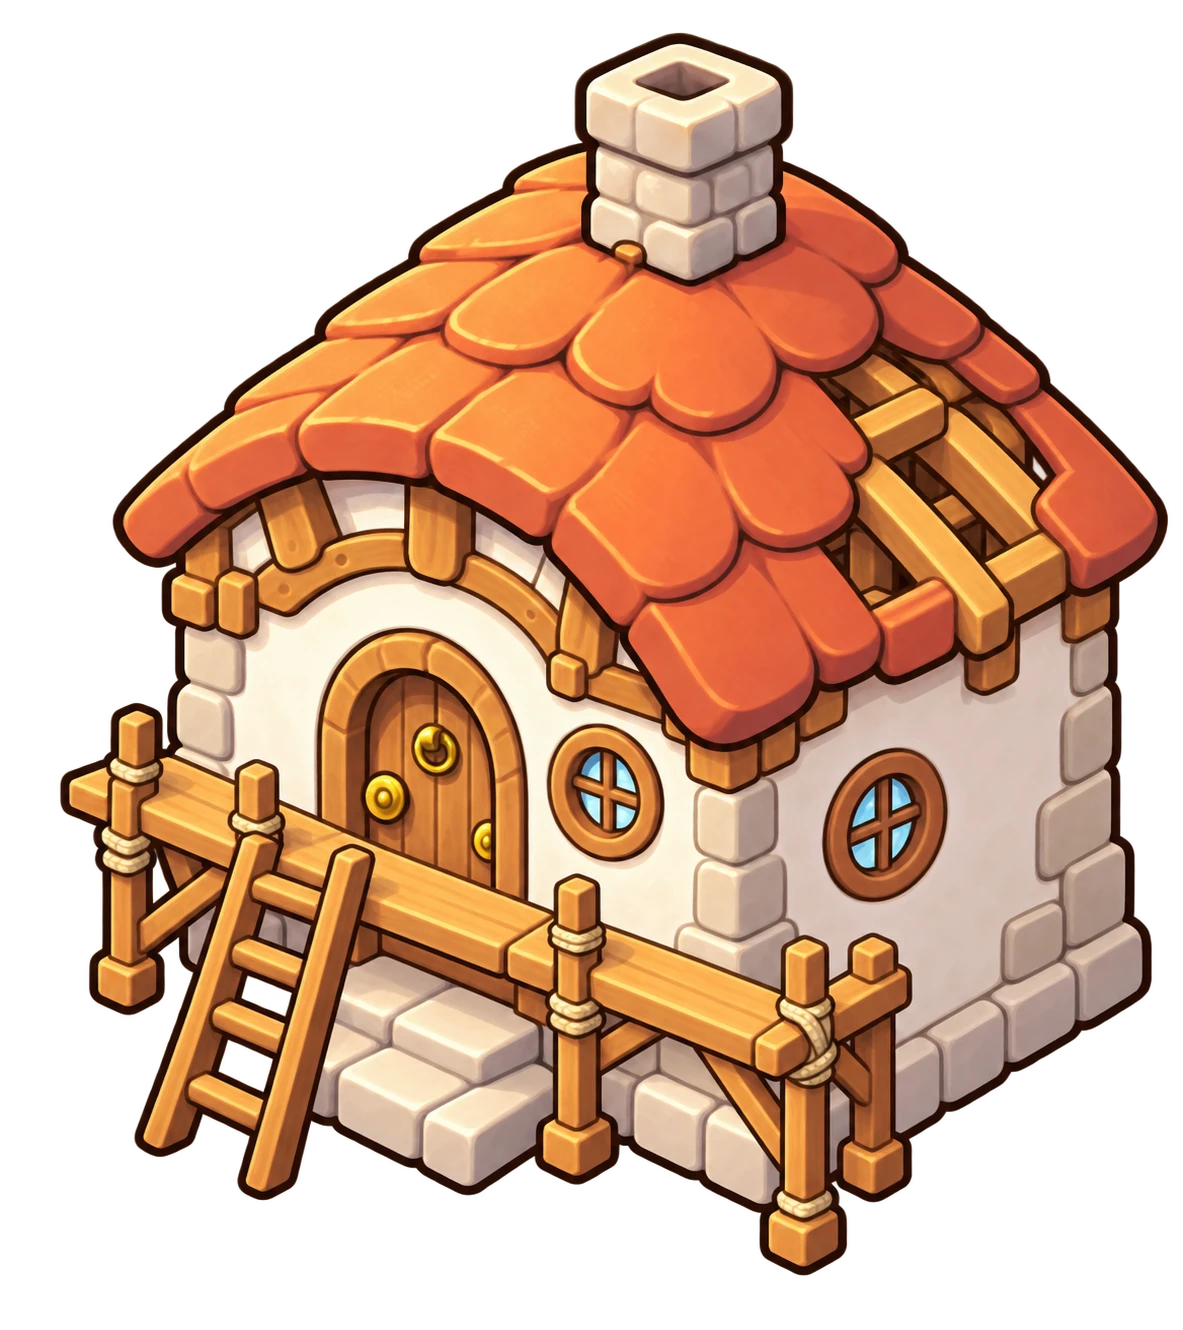
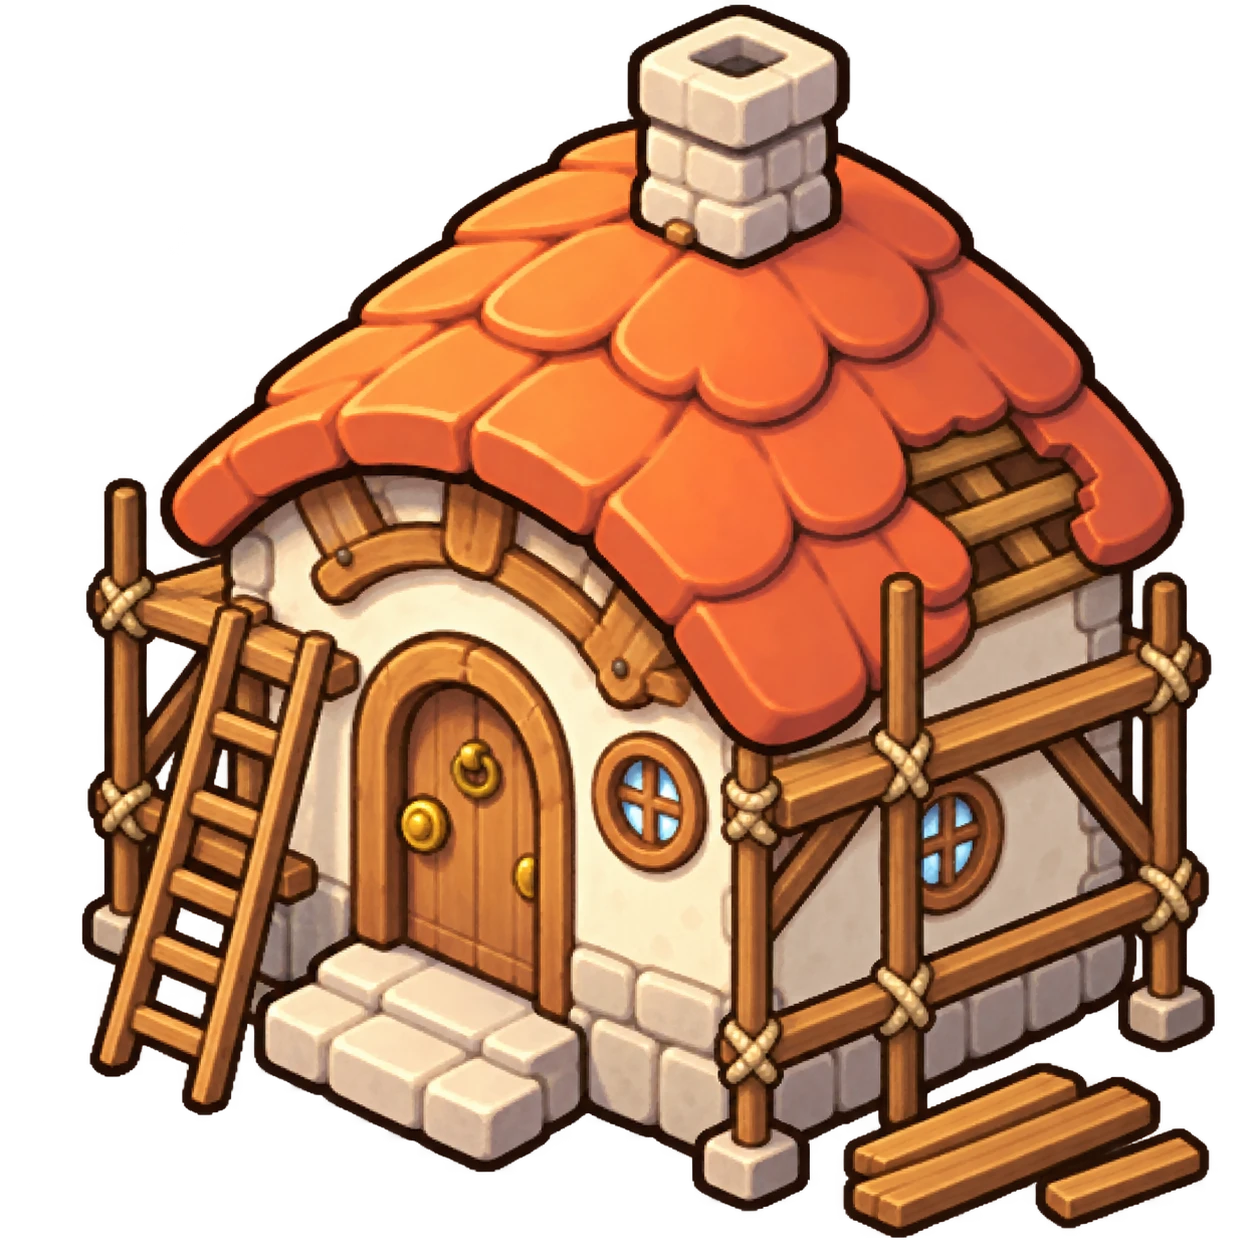
feat: 돌아옴 팝업 마을 소식, 완성 집과 맞춘 공사 3단계 그림, 요정 위치 이동
- 자리를 비운 동안 팝업에 마을 소식: 다 지은 건설(한 번만), 짓는 중 남은 시간, 다시 생긴 줍기 자리, 다음 할 일
- 공사 3단계 그림을 완성 집 그림 기반으로 교체, 지붕 겹침으로 위치 맞춤
- 단계 그림 캔버스에 여백(PAD 48)을 두고 Unity 피벗을 그만큼 옮김 (비계가 잘리지 않게)
- TMP 한국어 줄바꿈을 띄어쓰기 단위로 (UseModernHangulLineBreakingRules)
- 광장 요정을 게시판과 겹치지 않는 오른쪽 가운데로 이동

diff --git a/Tools/UIGen/fit_stage_images.py b/Tools/UIGen/fit_stage_images.py
@@ -3,11 +3,12 @@
 #     stage0_site.png   건설 예정지 (1단계 그림에서 나무 골조만 걷어 낸 편집본 — 같은 캔버스·같은 자리)
 #     stage1_frame.png  골조       ┐ 지붕 기와가 없어 두 집이 같이 씀
 #     stage2_walls.png  벽         ┘
-#     stage3_<집>.png    마무리 (집마다 지붕 색)
-# - 결과: Assets/Art/Settlement/Stage_<집>_<0~3>.png — 완성 집 PNG와 같은 캔버스 크기,
+#     stage3_<집>.png    마무리 (완성 집 그림을 고친 것 — 우물·화분이 빠져 그림 영역이 달라서 지붕을 겹쳐 맞춤)
+# - 결과: Assets/Art/Settlement/Stage_<집>_<0~3>.png — 완성 집 PNG 캔버스 + 사방 PAD 여백,
 #   그림 폭을 완성 집 폭에 맞추고 아래 가운데를 완성 집 아래 가운데에 맞춤 (Unity에서 같은 피벗·PPU로 겹쳐 보임)
 #   0단계는 1단계와 똑같은 비율·위치로 옮겨서 돌 기초가 정확히 겹치게 함
 # 실행: python Tools/UIGen/fit_stage_images.py
+import colorsys
 import os
 
 from PIL import Image
@@ -41,10 +42,71 @@ def placement(src, house):
     return box, (width, height), (cx - width // 2, hy1 - height)
 
 
+# 완성 집 그림을 고친 단계 → 지붕 색 (hue 범위 0~360)으로 겹쳐 맞춤
+ROOF_HUES = {"House_Blue": (160, 200), "House_Red": (0, 22)}
+
+
+def roof_mask(img, hues):
+    """지붕 기와 픽셀 집합 (채도·밝기가 충분하고 hue가 범위 안)"""
+    lo, hi = hues
+    w, h = img.size
+    px = img.load()
+    out = set()
+    for y in range(h):
+        for x in range(w):
+            r, g, b, a = px[x, y]
+            if a < 200:
+                continue
+            hue, s, v = colorsys.rgb_to_hsv(r / 255, g / 255, b / 255)
+            if s > 0.45 and v > 0.5 and lo <= hue * 360 <= hi:
+                out.add((x, y))
+    return out
+
+
+def bbox(points):
+    xs = [p[0] for p in points]
+    ys = [p[1] for p in points]
+    return min(xs), min(ys), max(xs) + 1, max(ys) + 1
+
+
+def roof_placement(src, house, hues):
+    """지붕끼리 가장 많이 겹치는 (자를 영역, 크기, 붙일 위치). 지붕 폭으로 대강 맞춘 뒤 배율·위치를 조금씩 바꿔 봄"""
+    target = roof_mask(house, hues)
+    tx0, ty0, tx1, ty1 = bbox(target)
+    box = src.getbbox()
+    cropped = src.crop(box)
+    sx0, _, sx1, _ = bbox(roof_mask(cropped.resize((cropped.width // 4, cropped.height // 4)), hues))
+    base = (tx1 - tx0) / ((sx1 - sx0) * 4)
+
+    best = None
+    for k in range(-8, 9):
+        scale = base * (1 + k * 0.01)
+        size = (round(cropped.width * scale), round(cropped.height * scale))
+        mask = roof_mask(cropped.resize(size, Image.LANCZOS), hues)
+        mx0, my0, mx1, my1 = bbox(mask)
+        # 지붕 영역의 왼쪽 위를 먼저 맞추고 주변을 찾음
+        ox, oy = tx0 - mx0, ty0 - my0
+        for dx in range(-6, 7):
+            for dy in range(-6, 7):
+                moved = {(x + ox + dx, y + oy + dy) for x, y in mask}
+                iou = len(moved & target) / len(moved | target)
+                if best is None or iou > best[0]:
+                    best = (iou, size, (ox + dx, oy + dy))
+    iou, size, pos = best
+    print(f"  지붕 겹침 {iou:.2f}, 크기 {size}, 위치 {pos}")
+    return box, size, pos
+
+
+# 완성 집 캔버스 둘레에 더하는 여백 (비계·판자가 집 밖으로 나와도 잘리지 않게).
+# Unity는 단계 그림이 사방으로 같은 여백을 가진다고 보고 피벗을 옮김 (SettlementSetup.ImportStageSprite)
+PAD = 48
+
+
 def render(src, house, place):
     box, size, pos = place
-    out = Image.new("RGBA", house.size, (0, 0, 0, 0))
-    out.alpha_composite(src.crop(box).resize(size, Image.LANCZOS), pos)
+    out = Image.new("RGBA", (house.width + PAD * 2, house.height + PAD * 2), (0, 0, 0, 0))
+    img = src.crop(box).resize(size, Image.LANCZOS)
+    out.paste(img, (pos[0] + PAD, pos[1] + PAD), img)
     return out
 
 
@@ -63,7 +125,8 @@ def main():
         house = Image.open(os.path.join(PROPS, f"Prop_{name}.png")).convert("RGBA")
         for i, file in enumerate(files, 1):
             src = load(file)
-            render(src, house, placement(src, house)).save(os.path.join(OUT, f"Stage_{name}_{i}.png"))
+            place = roof_placement(src, house, ROOF_HUES[name]) if i == 3 else placement(src, house)
+            render(src, house, place).save(os.path.join(OUT, f"Stage_{name}_{i}.png"))
             print("saved", f"Stage_{name}_{i}")
 
         if site is not None:

diff --git a/Assets/Scripts/Settlement/SettlementManager.cs b/Assets/Scripts/Settlement/SettlementManager.cs
@@ -58,6 +58,9 @@ public class SettlementManager : MonoBehaviour
     /// <summary>게시판을 열어 달라는 부탁 (광장 게시판·안내 띠). 게시판 화면이 듣는다. 인자: 부탁 탭으로 열지</summary>
     public event Action<bool> OnBoardRequested;
 
+    // 끝난 건설 (부탁, 끝난 시각). 돌아옴 팝업이 자리를 비운 동안 끝난 것만 골라 알리고 비운다
+    private readonly List<(BoardRequestDefinition request, long endTicks)> _finishedJobs = new List<(BoardRequestDefinition, long)>();
+
     private void Awake()
     {
         // 중복은 GlobalUIRoot가 먼저 꺼서 여기까지 오지 않지만, 혹시 모를 경우를 대비
@@ -210,6 +213,7 @@ public class SettlementManager : MonoBehaviour
             SaveRequested?.Invoke();
             return;
         }
+        _finishedJobs.Add((request, job.EndUtcTicks));
         Complete(request);
     }
 
@@ -286,6 +290,71 @@ public class SettlementManager : MonoBehaviour
         Settlement.SetGatherReady(pointId, NowTicks + TimeSpan.FromSeconds(cooldownSeconds).Ticks);
         SaveRequested?.Invoke();
         return added;
+    }
+
+    #endregion
+
+    #region 자리를 비운 동안
+
+    /// <summary>
+    /// 돌아옴 팝업의 마을 소식: 비운 동안 다 지은 건설, 아직 짓는 중인 건설, 다시 생긴 줍기 자리.
+    /// 다 지은 건설은 한 번만 알린다. 소식이 없으면 아무것도 넣지 않는다
+    /// </summary>
+    public void CollectAbsenceNews(double absenceSeconds, List<string> lines)
+    {
+        if (lines == null)
+            throw new ArgumentNullException(nameof(lines));
+        if (!IsLoaded)
+            return;
+
+        long now = NowTicks;
+        long leftAt = now - TimeSpan.FromSeconds(Math.Max(0, absenceSeconds)).Ticks;
+
+        // 백그라운드에서 돌아오면 Update보다 먼저 불려 아직 안 끝났을 수 있음
+        if (Settlement.Job != null && Settlement.Job.IsDue(now))
+            FinishJob();
+
+        foreach (var (request, endTicks) in _finishedJobs)
+        {
+            if (endTicks < leftAt)
+                continue;
+            // 완료 문구는 첫 줄만 (팝업 한 줄에 들어가게)
+            string done = $"{request.Construction.DisplayName} 완성!";
+            string message = string.IsNullOrEmpty(request.CompletionMessage) ? null : request.CompletionMessage.Split('\n')[0];
+            lines.Add(message == null ? done : $"{done} {message}");
+        }
+        _finishedJobs.Clear();
+
+        var building = JobRequest;
+        if (building != null)
+            lines.Add($"{building.Construction.ProgressLabel} · {FormatRemaining(Settlement.Job.Remaining(now))} 남았어요");
+
+        int regrown = Settlement.CountGatherRegrown(leftAt, now);
+        if (regrown > 0)
+            lines.Add($"광장에 주울 나뭇가지·돌이 {regrown}곳 다시 생겼어요");
+    }
+
+    /// <summary>돌아옴 팝업 맨 아래의 다음 할 일 (지금 할 부탁 또는 정착 후보의 이야기. 짓는 중이거나 다 끝냈으면 null)</summary>
+    public string NextGoalTitle
+    {
+        get
+        {
+            if (!IsLoaded || Settlement.Job != null)
+                return null;
+            var current = CurrentRequest;
+            if (current != null)
+                return current.Title;
+            var intro = PendingIntroOtter;
+            return intro != null ? $"{intro.DisplayName}의 이야기 듣기" : null;
+        }
+    }
+
+    private static string FormatRemaining(TimeSpan remaining)
+    {
+        int seconds = (int)Math.Ceiling(remaining.TotalSeconds);
+        if (seconds >= 3600)
+            return $"{seconds / 3600}시간 {seconds / 60 % 60}분";
+        return seconds >= 60 ? $"{(seconds + 59) / 60}분" : $"{seconds}초";
     }
 
     #endregion

diff --git a/Assets/Editor/Settlement/SettlementSetup.Plaza.cs b/Assets/Editor/Settlement/SettlementSetup.Plaza.cs
@@ -436,7 +436,8 @@ public static partial class SettlementSetup
         return view;
     }
 
-    // 단계 그림은 완성 집 그림과 같은 크기라, 완성 집 스프라이트의 PPU·피벗을 그대로 써서 겹쳐 보이게 함
+    // 단계 그림은 완성 집 그림 캔버스에 사방 같은 여백을 더한 크기(fit_stage_images.py의 PAD) →
+    // 완성 집의 PPU를 쓰고, 피벗은 완성 집 피벗을 여백만큼 옮겨서 겹쳐 보이게 함
     private static Sprite ImportStageSprite(string name, Sprite house)
     {
         string path = $"{ArtFolder}/{name}.png";
@@ -455,7 +456,9 @@ public static partial class SettlementSetup
         var settings = new TextureImporterSettings();
         importer.ReadTextureSettings(settings);
         settings.spriteAlignment = (int)SpriteAlignment.Custom;
-        settings.spritePivot = new Vector2(house.pivot.x / house.rect.width, house.pivot.y / house.rect.height);
+        importer.GetSourceTextureWidthAndHeight(out int width, out int height);
+        var pad = new Vector2((width - house.rect.width) * 0.5f, (height - house.rect.height) * 0.5f);
+        settings.spritePivot = new Vector2((house.pivot.x + pad.x) / width, (house.pivot.y + pad.y) / height);
         importer.SetTextureSettings(settings);
         importer.SaveAndReimport();
         return AssetDatabase.LoadAssetAtPath<Sprite>(path);

diff --git a/Assets/Scripts/UI/GameUI.cs b/Assets/Scripts/UI/GameUI.cs
@@ -291,6 +291,8 @@ public class GameUI : MonoBehaviour
         offlineReportModal = modal;
         CreateLabel(content, $"{FormatDuration(report.ElapsedSec)} 동안 있었던 일이에요.");
 
+        if (report.SettlementNews.Count > 0) CreateLabel(content, "마을 소식\n" + string.Join("\n", report.SettlementNews));
+
         if (report.OtterVisits.Count > 0) CreateLabel(content, DescribeOtterVisits(report.OtterVisits));
 
         if (report.Received.Count > 0) CreateLabel(content, "받은 것\n" + ListStacks(report.Received, itemName));
@@ -309,6 +311,8 @@ public class GameUI : MonoBehaviour
             var outOfSeeds = CreateLabel(content, $"모종이 떨어져서 멈춘 작물\n{string.Join(", ", names)}");
             outOfSeeds.color = style.WarningColor;
         }
+
+        if (!string.IsNullOrEmpty(report.NextGoal)) CreateLabel(content, $"다음 할 일 · {report.NextGoal}");
 
         CreateButton(content, "확인", () => CloseModal(modal), kind: ButtonKind.Primary);
     }

diff --git a/Assets/Scripts/Offline/OfflineReport.cs b/Assets/Scripts/Offline/OfflineReport.cs
@@ -14,8 +14,15 @@ public class OfflineReport
     public readonly List<string> OutOfSeeds = new List<string>();
     // Names of otters that visited, in visit order (repeats possible).
     public readonly List<string> OtterVisits = new List<string>();
+    // Settlement news lines: construction finished or still going, plaza
+    // gather spots that grew back (SettlementManager.CollectAbsenceNews).
+    public readonly List<string> SettlementNews = new List<string>();
+    // The board request to do next. Shown at the bottom, but on its own
+    // doesn't make the popup appear.
+    public string NextGoal;
 
-    public bool HasAnything => Received.Count > 0 || Lost.Count > 0 || OutOfSeeds.Count > 0 || OtterVisits.Count > 0;
+    public bool HasAnything => Received.Count > 0 || Lost.Count > 0 || OutOfSeeds.Count > 0 || OtterVisits.Count > 0
+                               || SettlementNews.Count > 0;
 
     public static void AddTo(List<ItemStack> stacks, string itemId, int quantity)
     {

diff --git a/Assets/Tests/EditMode/SettlementTests.cs b/Assets/Tests/EditMode/SettlementTests.cs
@@ -222,6 +222,19 @@ public class SettlementTests
     }
 
     [Test]
+    public void CountGatherRegrown_CountsOnlySpotsThatGrewBackInTheWindow()
+    {
+        var settlement = new Settlement();
+        settlement.SetGatherReady("branch_1", 50);    // 나가기 전에 이미 생김
+        settlement.SetGatherReady("branch_2", 150);   // 비운 동안 생김
+        settlement.SetGatherReady("pebble_1", 200);   // 돌아온 순간 생김
+        settlement.SetGatherReady("pebble_2", 500);   // 아직 안 생김
+
+        Assert.AreEqual(2, settlement.CountGatherRegrown(100, 200));
+        Assert.AreEqual(0, settlement.CountGatherRegrown(200, 200), "비운 시간이 0이면 없음");
+    }
+
+    [Test]
     public void EmptySave_FromOldVersion_LoadsAsFreshState()
     {
         var loaded = new Settlement();

diff --git a/Assets/Scripts/Settlement/Model/Settlement.cs b/Assets/Scripts/Settlement/Model/Settlement.cs
@@ -100,6 +100,18 @@ public class Settlement
     public bool IsGatherReady(string pointId, long nowUtcTicks) =>
         !_gatherReady.TryGetValue(pointId, out long ready) || nowUtcTicks >= ready;
 
+    /// <summary>from 뒤로 to까지 사이에 다시 생긴 줍기 자리 수 (자리를 비운 동안의 소식)</summary>
+    public int CountGatherRegrown(long fromUtcTicks, long toUtcTicks)
+    {
+        int count = 0;
+        foreach (long ready in _gatherReady.Values)
+        {
+            if (ready > fromUtcTicks && ready <= toUtcTicks)
+                count++;
+        }
+        return count;
+    }
+
     #endregion
 
     #region 바꾸기

diff --git a/Assets/Editor/Shop/FairyShopSetup.cs b/Assets/Editor/Shop/FairyShopSetup.cs
@@ -552,7 +552,7 @@ public static class FairyShopSetup
         }
 
         var root = new GameObject("FairyNpc");
-        root.transform.position = new Vector3(-3.4f, 6.0f, 0f); // 처음 카메라 화면 왼쪽 위 (말풍선이 상단바에 가리지 않는 높이)
+        root.transform.position = new Vector3(3.6f, 1.4f, 0f); // 처음 카메라 화면 오른쪽 가운데 (왼쪽 위 게시판·나뭇가지와 안 겹침)
 
         var fairySprite = ImportSprite(NpcArtFolder, "Fairy");
         var fairy = new GameObject("Fairy").AddComponent<SpriteRenderer>();

diff --git a/Assets/Scripts/GameManager.cs b/Assets/Scripts/GameManager.cs
@@ -543,6 +543,12 @@ public class GameManager : MonoBehaviour
         if (absenceSec < minOfflineAbsenceSec) return;
 
         var report = offlineProduction.Run(save, absenceSec, new OfflineBag(this));
+        var settlement = SettlementManager.Instance;
+        if (settlement != null)
+        {
+            settlement.CollectAbsenceNews(absenceSec, report.SettlementNews);
+            report.NextGoal = settlement.NextGoalTitle;
+        }
         SaveNow();
         if (report.HasAnything) gameUI.ShowOfflineReport(report, ItemDisplayName);
     }
